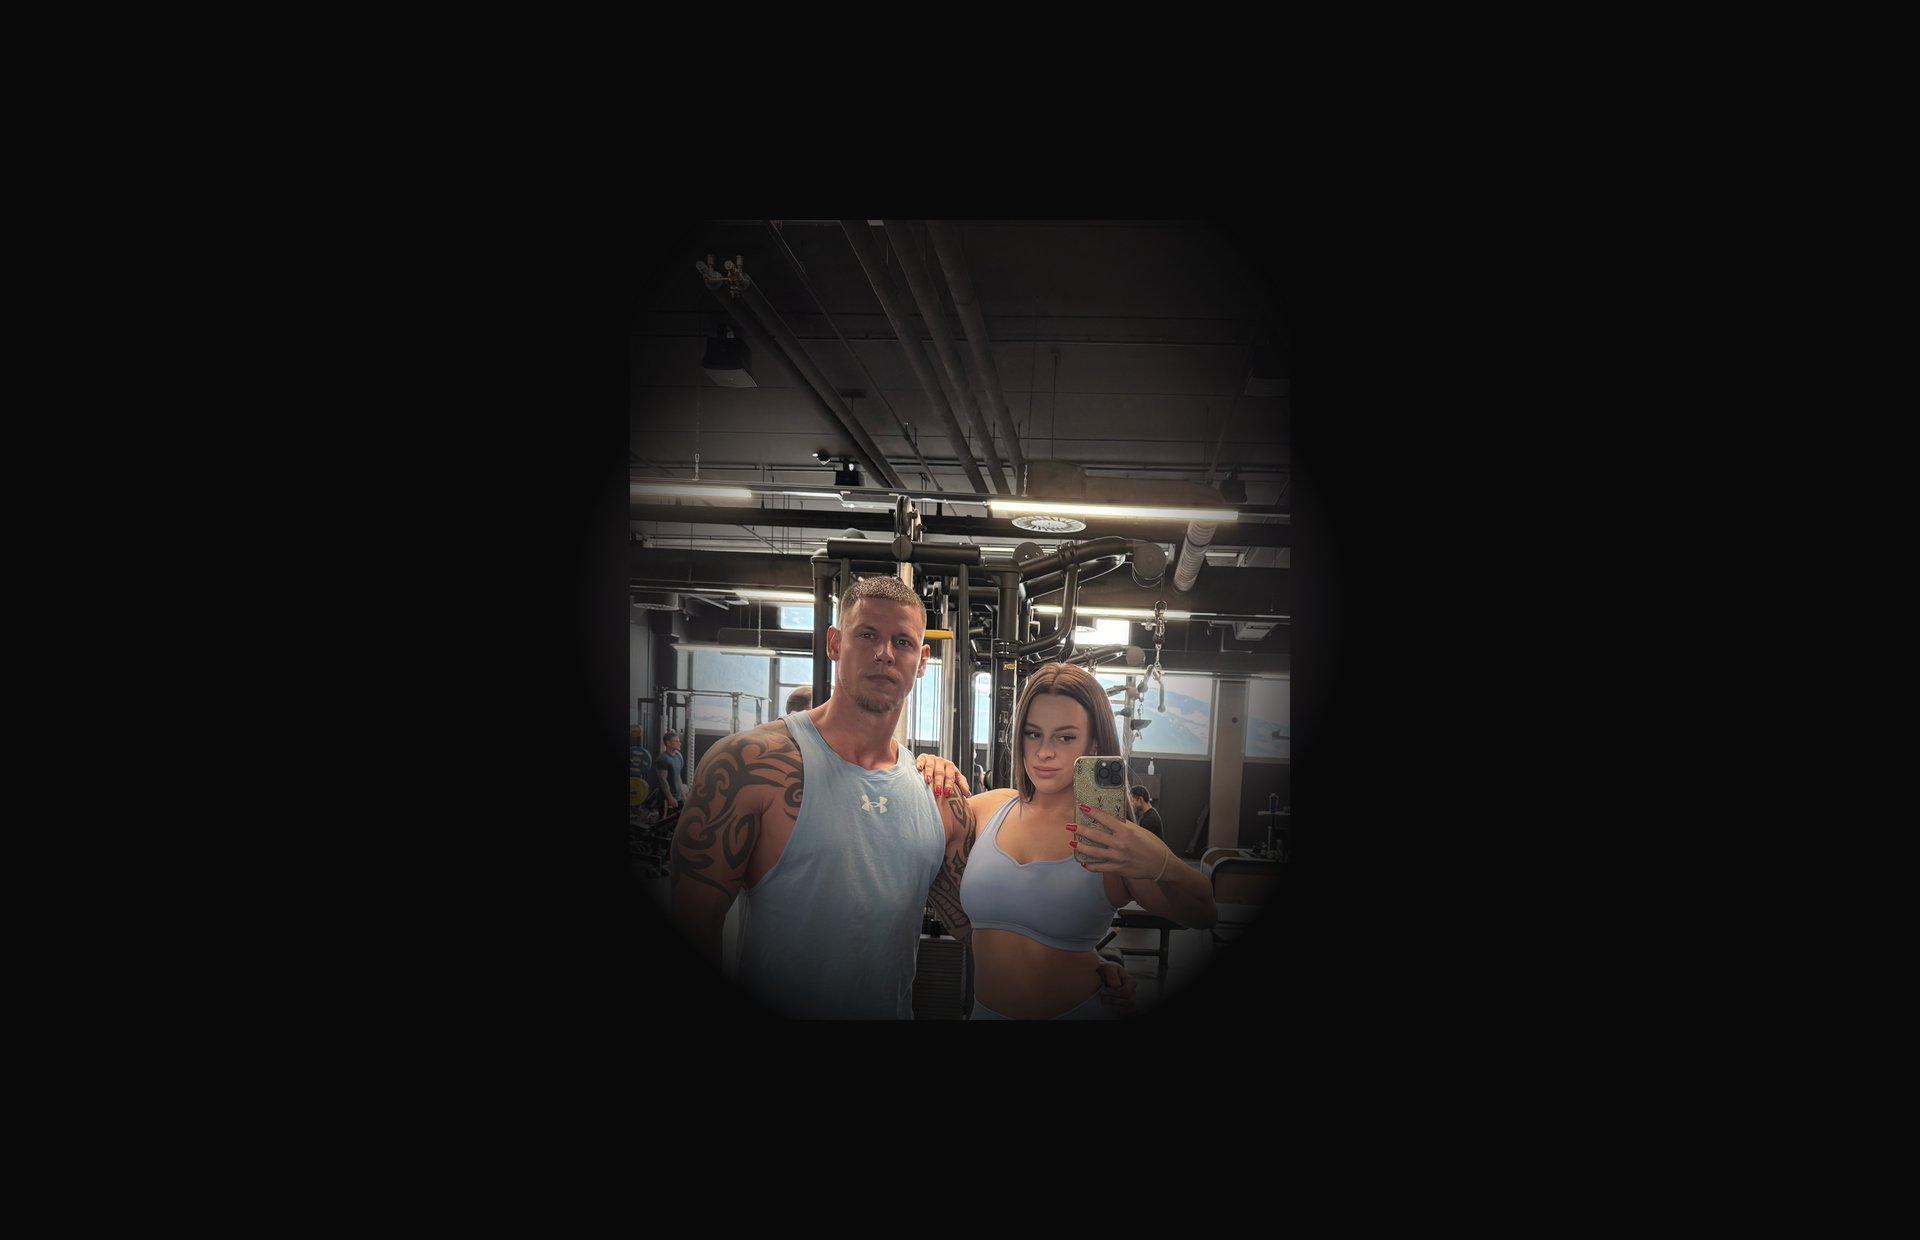
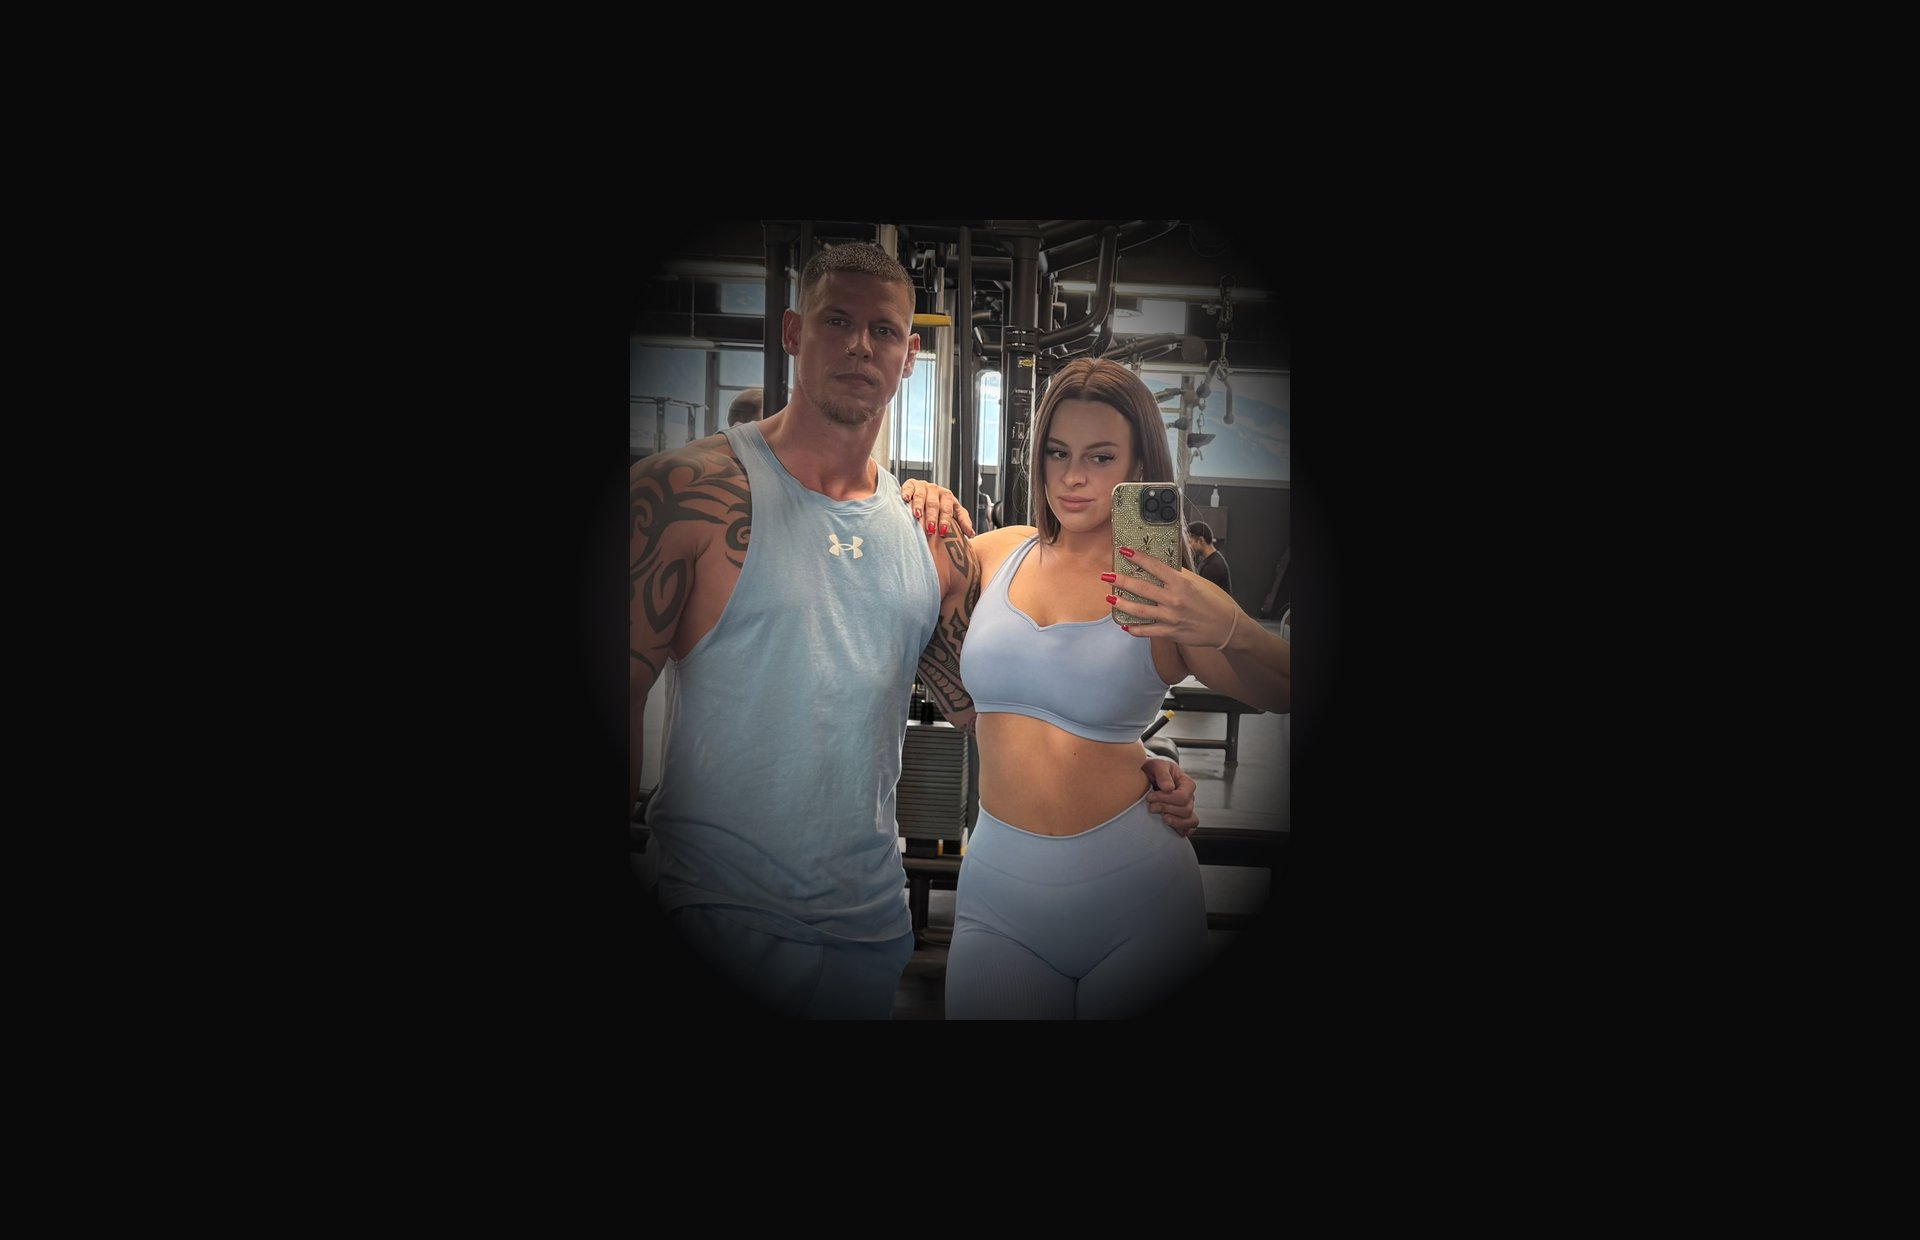
Hero: pull couple up, tighter crop (less ceiling)
Claude-Session: https://claude.ai/code/session_01RtbiUYFNdswaq59EqqYNLn

Changed region(s): [[0.3125, 0.1839, 0.6875, 0.8274]]

diff --git a/bg-main.html b/bg-main.html
@@ -13,7 +13,7 @@
     background:radial-gradient(circle,rgba(255,46,126,.08) 0%,rgba(255,46,126,0) 62%);}
   /* wider frame, softer oval fade */
   .frame{position:relative;width:660px;height:800px;
-    background:url('assets/bio/newhero.JPEG') 50% 14%/150% auto no-repeat;
+    background:url('assets/bio/newhero.JPEG') 50% 46%/200% auto no-repeat;
     -webkit-mask-image:radial-gradient(ellipse 62% 60% at 50% 46%,#000 40%,rgba(0,0,0,0) 100%);
             mask-image:radial-gradient(ellipse 62% 60% at 50% 46%,#000 40%,rgba(0,0,0,0) 100%);}
 </style></head>
